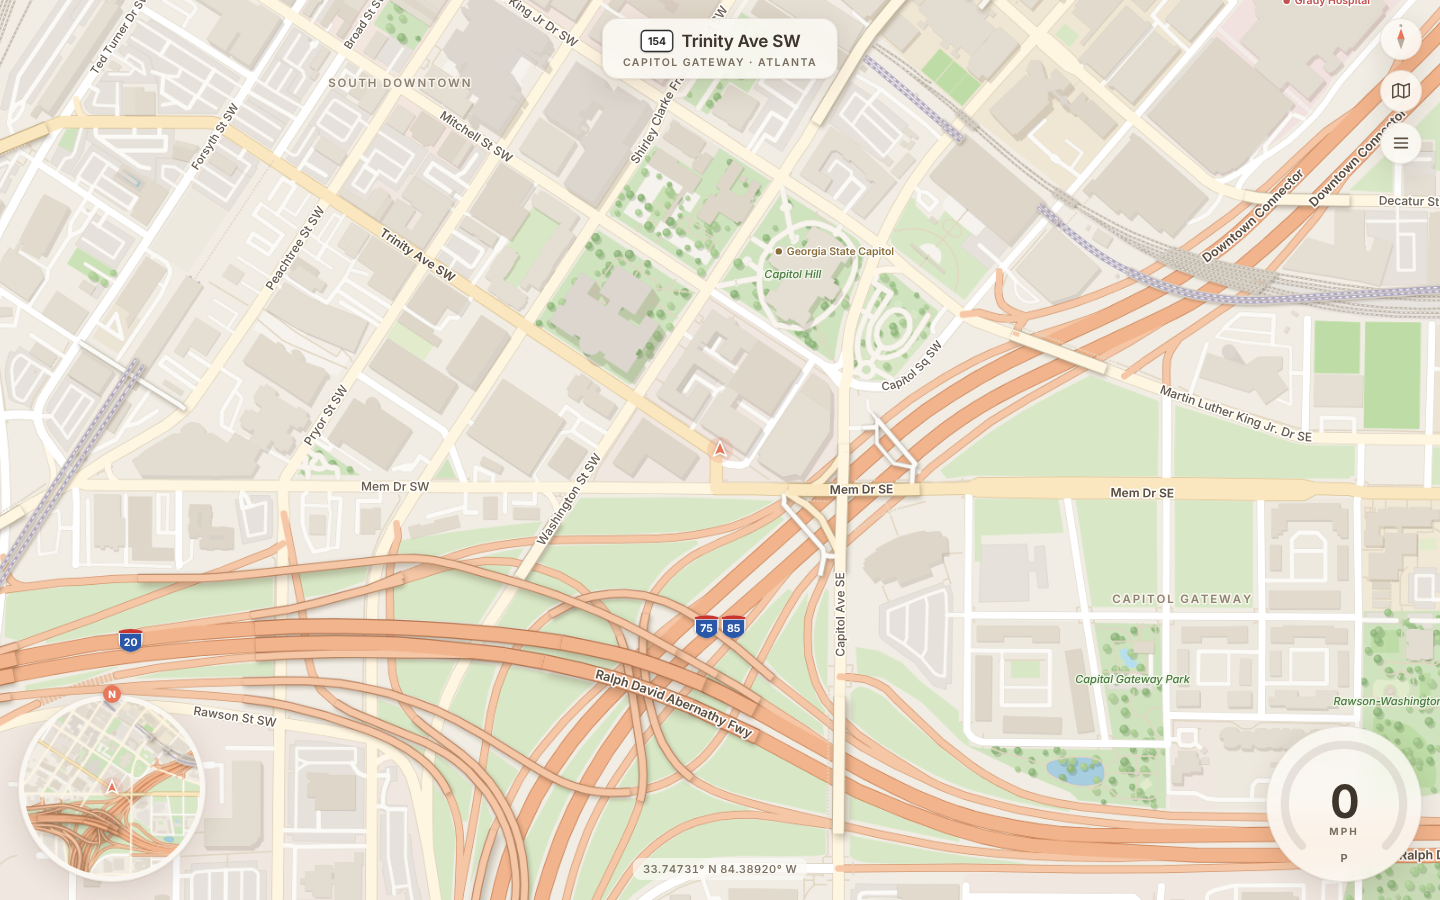
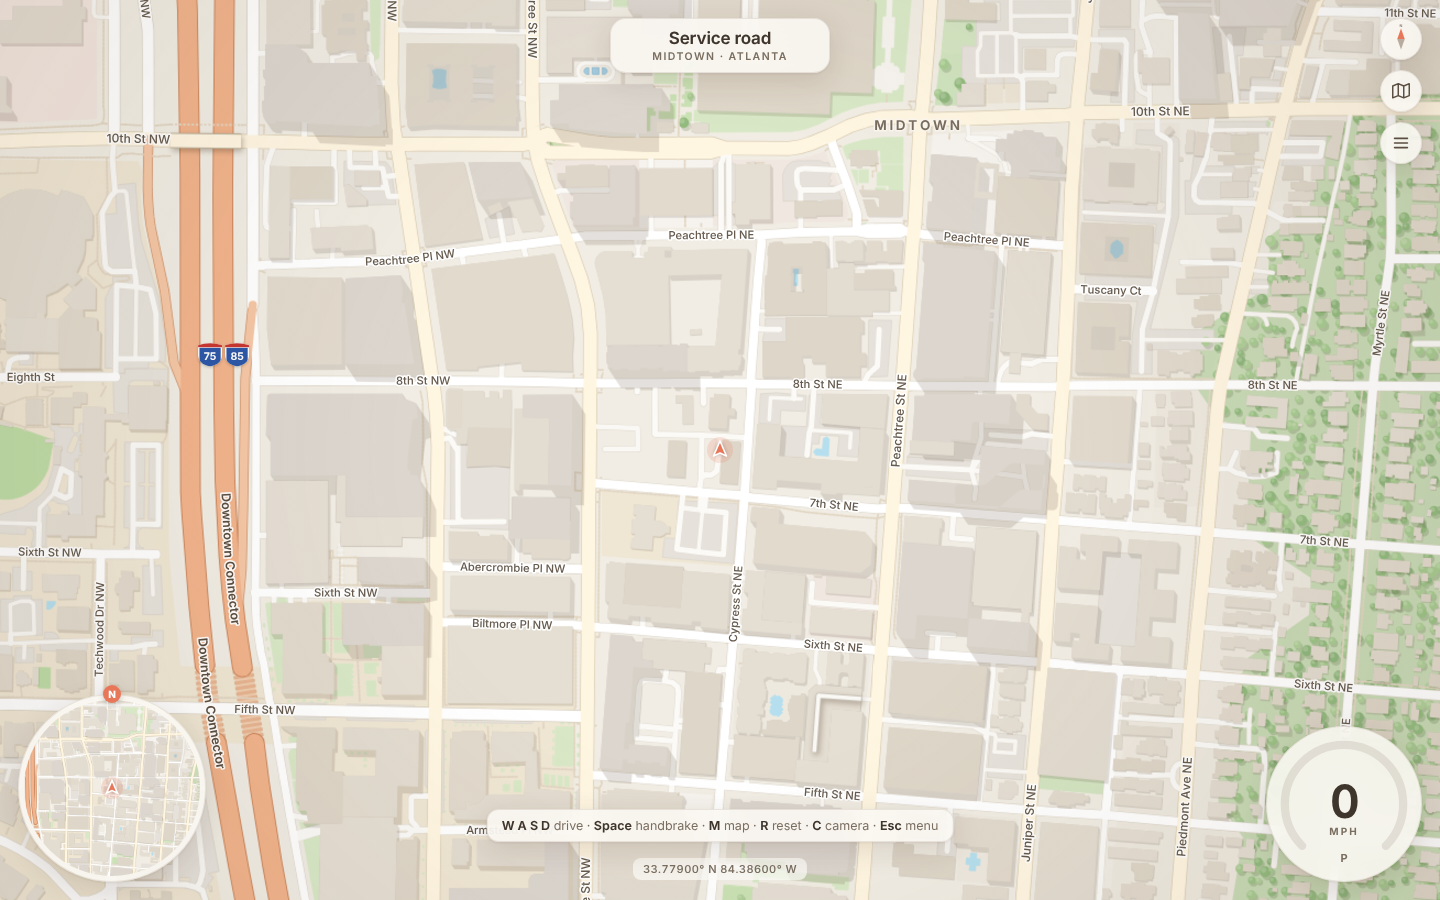
Ambient vignette, tile-memory cap for large screens, README screenshots
Claude-Session: https://claude.ai/code/session_01MvZVi9STbrsJBST61gggD8

diff --git a/src/game/game.ts b/src/game/game.ts
@@ -114,7 +114,9 @@ export class Game {
 
   renderDpr() {
     const d = window.devicePixelRatio || 1;
-    return Math.min(d, this.settings.quality >= 2 ? 2 : 1);
+    // keep the backing store under ~9 MP so huge 4K/5K screens stay smooth
+    const cap = Math.sqrt(9e6 / Math.max(1, window.innerWidth * window.innerHeight));
+    return Math.max(1, Math.min(d, this.settings.quality >= 2 ? 2 : 1, cap));
   }
 
   private resize() {
@@ -127,7 +129,7 @@ export class Game {
     this.mm.height = Math.round(mw * dpr);
     this.cache?.setPxScale(dpr);
     // keep enough tiles for a full screen at two zoom levels (+ minimap)
-    if (this.cache) this.cache.maxTiles = Math.max(140, Math.ceil((w * dpr * h * dpr) / (512 * 512)) * 5 + 60);
+    if (this.cache) this.cache.maxTiles = Math.min(340, Math.max(140, Math.ceil((w * dpr * h * dpr) / (512 * 512)) * 5 + 60));
   }
 
   mainView(): View {
@@ -420,9 +422,29 @@ export class Game {
       ctx.setTransform(v.dpr, 0, 0, v.dpr, 0, 0);
       drawPuck(ctx, carS[0], carS[1], car.heading + v.rot);
     }
+    this.drawVignette(ctx);
     this.renderMinimap();
     this.cache.pump();
     this.updateHud(rdt);
+  }
+
+  private vignette: HTMLCanvasElement | null = null;
+  /** soft warm ambient vignette — pre-rendered once per canvas size */
+  private drawVignette(ctx: CanvasRenderingContext2D) {
+    const W = this.canvas.width, H = this.canvas.height;
+    if (!this.vignette || this.vignette.width !== W || this.vignette.height !== H) {
+      const c = document.createElement('canvas');
+      c.width = W; c.height = H;
+      const g = c.getContext('2d')!;
+      const grad = g.createRadialGradient(W / 2, H / 2, Math.min(W, H) * 0.35, W / 2, H / 2, Math.hypot(W, H) * 0.62);
+      grad.addColorStop(0, 'rgba(90,70,50,0)');
+      grad.addColorStop(1, 'rgba(90,70,50,0.13)');
+      g.fillStyle = grad;
+      g.fillRect(0, 0, W, H);
+      this.vignette = c;
+    }
+    ctx.setTransform(1, 0, 0, 1, 0, 0);
+    ctx.drawImage(this.vignette, 0, 0);
   }
 
   private toScreen(v: View, x: number, y: number): [number, number] {

diff --git a/README.md b/README.md
@@ -2,7 +2,13 @@
 
 Drive a little car through every mapped street inside I-285: down Peachtree, onto the Downtown Connector, out to Decatur, up GA-400 to Buckhead. The whole world is built from real OpenStreetMap geometry, including streets, ramps, bridges, one-ways, buildings, parks, lakes, and rail. There are no mocked or fictional streets.
 
-![Midtown at Peachtree & 10th](docs/midtown.png)
+![Downtown Atlanta — Five Points, the State Capitol and the Connector](docs/downtown.png)
+
+| | |
+|---|---|
+| ![Midtown](docs/midtown.png) Midtown, close-up | ![Overview](docs/overview.png) Midtown → Old Fourth Ward → Decatur |
+| ![Full map](docs/full-map.png) Full map, clipped to I-285 | ![Route](docs/route.png) Search + route to Ponce City Market |
+| ![Connector](docs/connector-car-up.png) Downtown Connector, car-up camera | |
 
 ## Quick start
 
@@ -33,6 +39,7 @@ npm run data:build   # projects, clips to I-285, chunks, builds labels/search/ro
 | R | Reset car onto the nearest road, facing legal traffic direction |
 | M | Full-screen map (search, destinations, routing) |
 | C | Toggle north-up / car-up camera |
+| F3 or ` | Debug overlay (fps, tile stats, road under car) |
 | Esc | Pause and settings |
 
 A gamepad also works: left stick to steer, RT/LT for throttle/brake, A/B for the handbrake.
